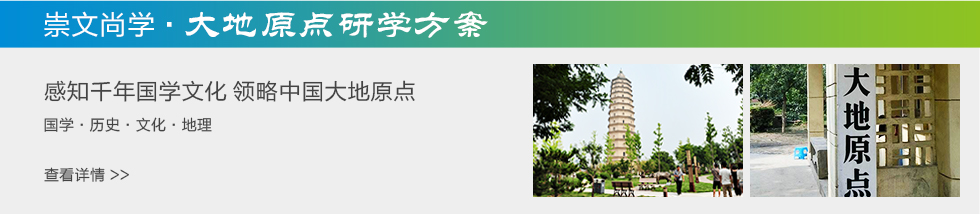
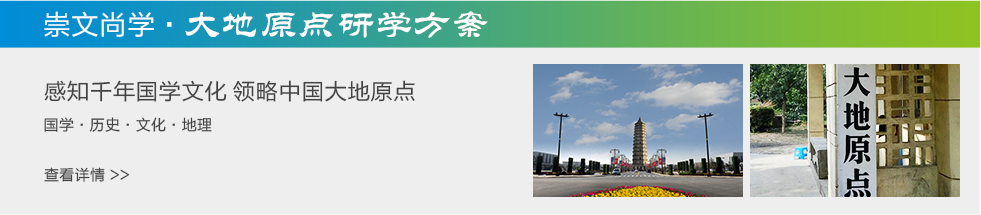
增加banner，更换部分图片

diff --git a/resources/views/test.blade.php b/resources/views/test.blade.php
@@ -109,6 +109,9 @@
                         <img src="images/banner3.png" alt="">
                     </div>
                     <div class="swiper-slide">
+                        <a href="http://www.jinghechengfu.com/admin/news/37"><img src="images/banner5.jpg" alt=""></a>
+                    </div>
+                    <div class="swiper-slide">
                         <a href="http://www.jinghechengfu.com/admin/news/17"><img src="images/banner4.jpg" alt=""></a>
                     </div>
                 </div>
@@ -247,7 +250,7 @@
             <div class="swiper-container">
                 <div class="swiper-wrapper">
                     <div class="swiper-slide">
-                        <img src="images/cfr.jpg" alt="">
+                        <img src="images/dt2.jpg" alt="">
                     </div>
                     <div class="swiper-slide">
                         <img src="images/dt1.jpg" alt="">

diff --git a/resources/views/wygl/whjq.blade.php b/resources/views/wygl/whjq.blade.php
@@ -81,7 +81,7 @@
                 <img src=" {{ asset('images/whjq_5.jpg') }}" alt="" class="img-100">
             </div>
             <div class="col-xs-4 col-sm-4 col-md-6 col-lg-4">
-                <img src=" {{ asset('images/whjq_3.jpg') }}" alt="" class="img-100">
+                <img src=" {{ asset('images/whjq_60.jpg') }}" alt="" class="img-100">
             </div>
         </div>
     </div>
